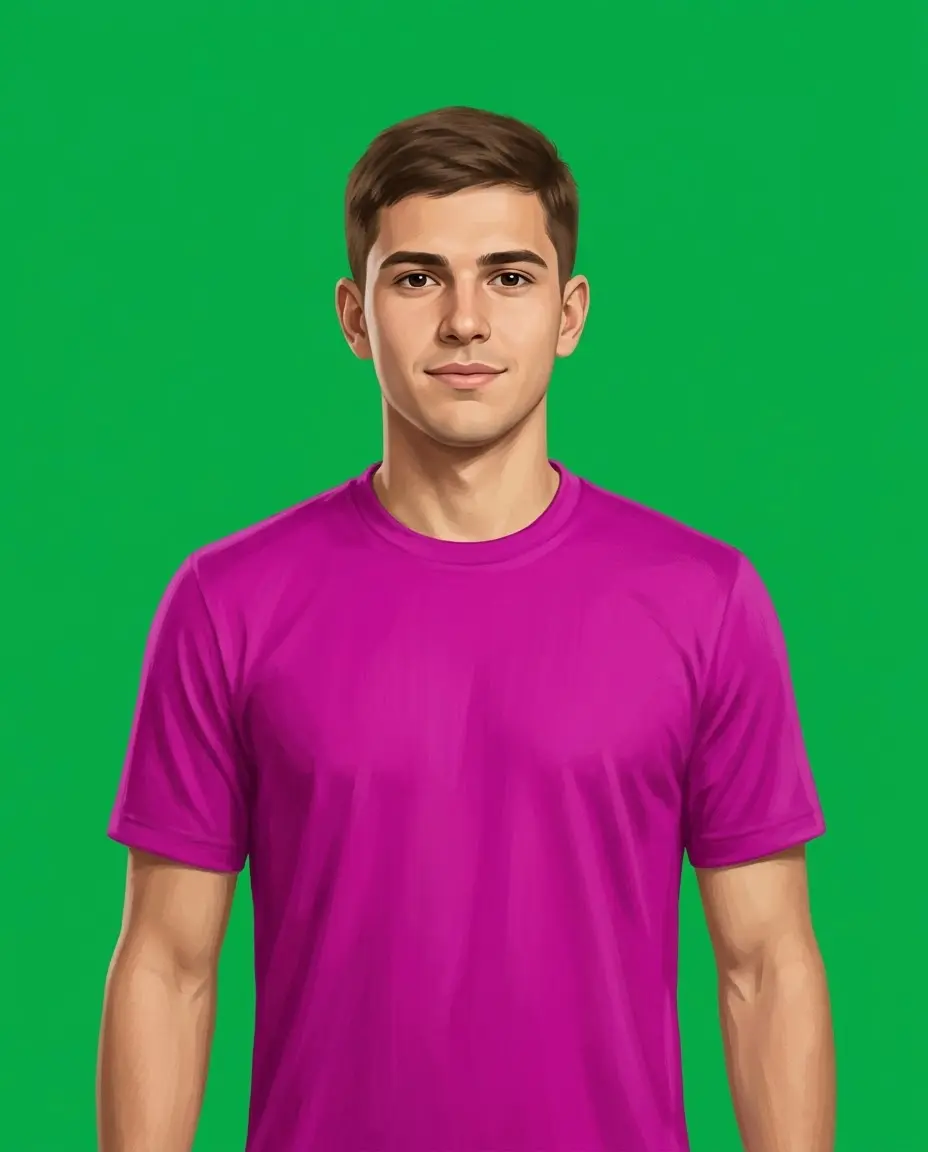
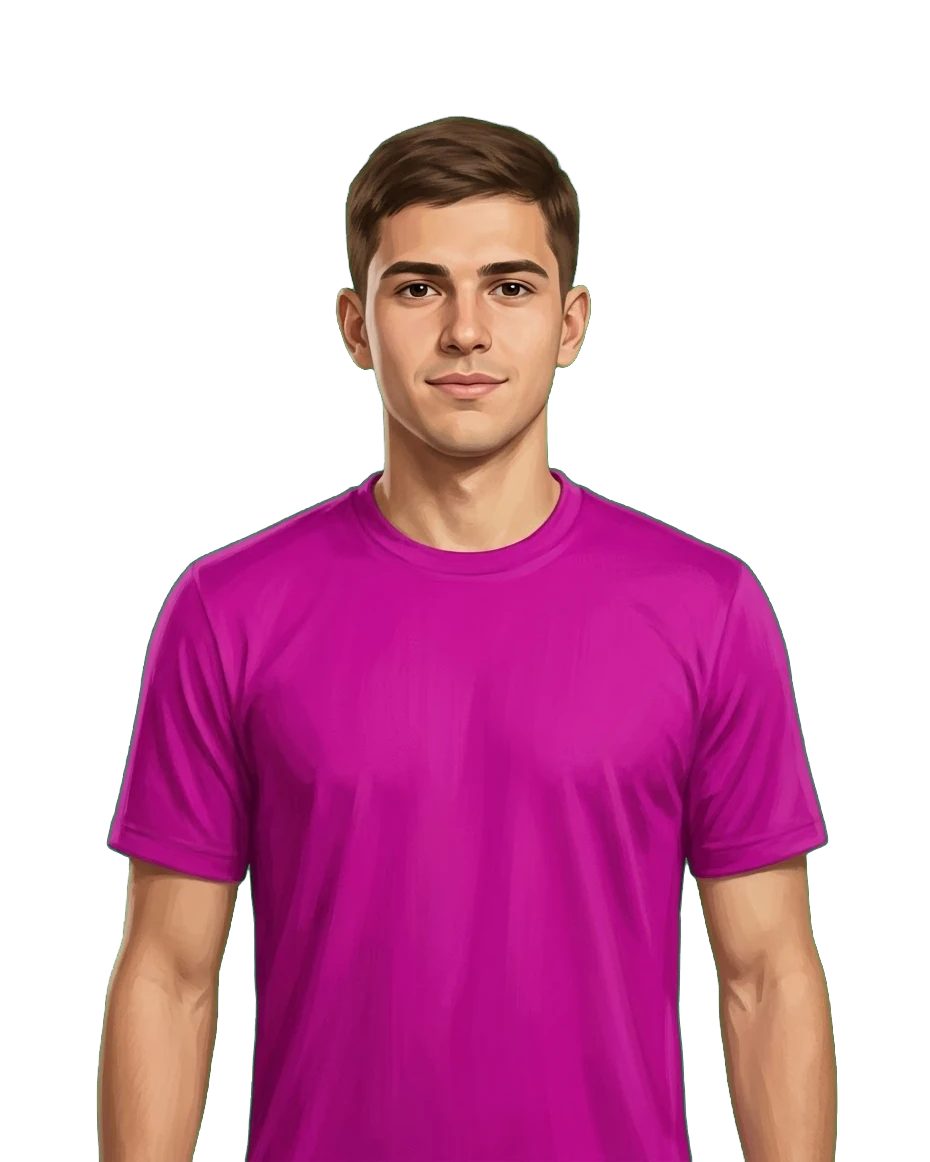
feat(arte): pós-processamento dos visuais (fundo transparente, 4:5, cabeça a 10%) e retratos processados
processar_visuais.py: matte por verde-croma com despill, reenquadramento que só estende a tela (nunca corta o corpo),
margem lateral >= 8%, WebP com alfa. Autoteste em test_processar_visuais.py; teste do cabeçalho do WebP (alfa e 4:5)
em visuais.test.ts. Fontes dos 10 retratos em docs/arte/visuais/visual-NN/Image.jpeg. Palco da criação sobre o gramado.

Claude-Session: https://claude.ai/code/session_01Afp53NU5J5wNwSjZBmW8AF

diff --git a/src/data/visuais.test.ts b/src/data/visuais.test.ts
@@ -1,3 +1,5 @@
+import { readFileSync } from 'node:fs';
+import { join } from 'node:path';
 import avatarData from './avatar.json';
 import visuais from './visuais.json';
 import { t } from '../i18n';
@@ -40,5 +42,22 @@ describe('visuais prontos (T50g, v2.36)', () => {
   it('cada visual tem a imagem provisória visual-NN.webp, em 4:5', () => {
     for (const v of LIST) expect(Object.keys(ART), v.id).toContain(`../assets/visuais/${v.id}.webp`);
     expect(Object.keys(ART)).toHaveLength(10);
+  });
+
+  // pós-processamento (docs/arte/processar_visuais.py): fundo transparente e tela 4:5, lidos do cabeçalho do WebP
+  const header = (id: string) => {
+    const b = readFileSync(join(__dirname, '..', 'assets', 'visuais', `${id}.webp`));
+    const riff = b.toString('ascii', 0, 4) === 'RIFF' && b.toString('ascii', 8, 12) === 'WEBP';
+    const vp8x = b.toString('ascii', 12, 16) === 'VP8X';
+    return { riff, vp8x, alpha: vp8x && (b[20]! & 0x10) !== 0, w: vp8x ? b.readUIntLE(24, 3) + 1 : 0, h: vp8x ? b.readUIntLE(27, 3) + 1 : 0 };
+  };
+
+  it('os retratos são WebP com canal alfa (fundo verde removido) e proporção 4:5', () => {
+    for (const v of LIST) {
+      const h = header(v.id);
+      expect(h.riff, `${v.id} é WebP`).toBe(true);
+      expect(h.alpha, `${v.id} tem transparência`).toBe(true);
+      expect(Math.abs(h.w / h.h - 0.8), `${v.id} ${h.w}x${h.h}`).toBeLessThan(0.01);
+    }
   });
 });

diff --git a/src/ui/screens/AvatarHeroi.css b/src/ui/screens/AvatarHeroi.css
@@ -6,7 +6,7 @@
   block-size: min(54dvh, 30rem);
   border: var(--forma-borda-fina) solid var(--cor-linha);
   border-radius: var(--forma-raio-cartao);
-  background: var(--cor-trilho);
+  background: var(--cor-destaque); /* o retrato é transparente (fundo removido): o palco é o gramado */
   box-shadow: var(--forma-sombra-suave);
 }
 .heroi__numero {
@@ -66,9 +66,9 @@
   padding: 0;
   overflow: hidden;
   border-radius: var(--forma-raio);
-  background: var(--cor-superficie);
+  background: var(--cor-destaque);
 }
 .escolha__miniatura { inline-size: 100%; block-size: 100%; object-fit: cover; object-position: center top; }
 .escolha__espera { display: block; inline-size: 100%; block-size: 100%; background: var(--cor-trilho); }
-.escolhas--miniaturas .escolha__input:checked + .escolha__marca--miniatura { background: var(--cor-superficie); box-shadow: none; outline: 3px solid var(--cor-destaque); outline-offset: -3px; }
+.escolhas--miniaturas .escolha__input:checked + .escolha__marca--miniatura { background: var(--cor-destaque); box-shadow: none; outline: 3px solid var(--cor-destaque); outline-offset: -3px; }
 .escolhas--miniaturas .escolha__input:focus-visible + .escolha__marca--miniatura { outline: 3px solid var(--cor-foco); outline-offset: 1px; }

diff --git a/docs/arte/processar_visuais.py b/docs/arte/processar_visuais.py
@@ -1,0 +1,155 @@
+#!/usr/bin/env python3
+"""Pós-processamento dos 10 retratos de visuais (docs/arte/visuais/visual-NN/Image*.jpeg).
+
+Para cada imagem: (1) acha o fundo verde chapado e o torna transparente, sem franja verde nas bordas;
+(2) reenquadra em 4:5 estendendo a tela (nunca corta o corpo): cabeça a 10% do topo e margem lateral de pelo menos 8%;
+(3) grava um WebP com transparência em src/assets/visuais/visual-NN.webp.
+
+Uso:
+  uv run --with pillow --with numpy python docs/arte/processar_visuais.py [--saida pasta] [--largura 928] [--qualidade 90]
+Autoteste:
+  uv run --with pillow --with numpy python docs/arte/test_processar_visuais.py
+
+Só mede e mexe em pixels: não reconhece rostos nem altera o personagem. A resolução não aumenta (a menos que --largura
+peça uma ampliação por Lanczos, que só serve de provisório: o ideal é gerar de novo em 1856x2304).
+"""
+import argparse
+import glob
+import os
+import sys
+
+import numpy as np
+from PIL import Image
+
+RATIO = 0.8                 # 4:5
+HEAD_TOP = 0.10             # topo da cabeça a 10% da altura
+SIDE_MIN = 0.08             # margem lateral mínima (fração da largura), medida a 80% da altura
+KEY_LO, KEY_HI = 0.30, 0.80  # faixa do "quanto é fundo" em que a transparência é parcial
+
+
+def _corner_color(img):
+    h, w, _ = img.shape
+    n = max(6, w // 60)
+    patches = [img[:n, :n], img[:n, -n:], img[-n:, :n], img[-n:, -n:]]
+    return np.mean([p.reshape(-1, 3).mean(0) for p in patches], axis=0)
+
+
+def _greenness(img):
+    """Quanto o pixel é 'verde de chroma': g acima do maior entre r e b."""
+    return img[..., 1] - np.maximum(img[..., 0], img[..., 2])
+
+
+def matte(img):
+    """Opacidade 0..1 (0 = fundo). `img` é HxWx3 em float 0..255. O fundo é o verde dos cantos, de qualquer tom."""
+    ref = _corner_color(img)
+    ref_k = max(float(ref[1] - max(ref[0], ref[2])), 1.0)
+    ratio = _greenness(img) / ref_k                     # 1 no fundo, <=0 em pele, cabelo e camisa
+    t = np.clip((ratio - KEY_LO) / (KEY_HI - KEY_LO), 0.0, 1.0)
+    t = t * t * (3 - 2 * t)                              # suaviza a borda
+    return 1.0 - t
+
+
+def despill(img, alpha):
+    """Tira o verde que vaza do fundo nas bordas semitransparentes (g não passa do maior entre r e b)."""
+    out = img.copy()
+    edge = (alpha > 0.0) & (alpha < 0.98)
+    cap = np.maximum(img[..., 0], img[..., 2])
+    out[..., 1] = np.where(edge, np.minimum(img[..., 1], cap), img[..., 1])
+    return out
+
+
+def _bbox_rows(alpha):
+    rows = np.where((alpha > 0.5).sum(1) > max(2, alpha.shape[1] * 0.01))[0]
+    return int(rows[0]), int(rows[-1])
+
+
+def _side_margin_px(alpha):
+    h, w = alpha.shape
+    cols = np.where(alpha[int(h * 0.8)] > 0.5)[0]
+    return int(min(cols[0], w - 1 - cols[-1])) if len(cols) else 0
+
+
+def processar(im):
+    """Imagem PIL (fundo verde) -> RGBA 4:5 com a cabeça a 10% do topo e margens laterais >= 8%."""
+    rgb = np.asarray(im.convert('RGB')).astype(float)
+    h, w, _ = rgb.shape
+    alpha = matte(rgb)
+    clean = despill(rgb, alpha)
+    y_top, _ = _bbox_rows(alpha)
+    m = _side_margin_px(alpha)
+
+    t_head = max(0.0, (HEAD_TOP * h - y_top) / (1 - HEAD_TOP))    # folga em cima para a cabeça ficar a 10%
+    h2a = h + t_head
+    w2a = RATIO * h2a
+    p_min = max(0.0, (SIDE_MIN * w - m) / (1 - 2 * SIDE_MIN))     # folga lateral (cada lado) para a margem >= 8%
+    p_min = p_min + 1 if p_min > 0 else 0.0                       # +1 px: o arredondamento não pode comer a margem
+    w2 = max(w2a, w + 2 * p_min)
+    h2 = int(np.ceil(w2 / RATIO))                                  # sempre para cima: nunca corta nem encolhe a margem
+    w2 = int(np.ceil(h2 * RATIO))
+    t = h2 - h                                                     # todo o acréscimo vai no topo: o corte da cintura fica
+
+    rgba = np.zeros((h, w, 4), dtype=np.uint8)
+    rgba[..., :3] = np.clip(clean, 0, 255).astype(np.uint8)
+    rgba[..., 3] = np.clip(alpha * 255 + 0.5, 0, 255).astype(np.uint8)
+    canvas = Image.new('RGBA', (w2, h2), (0, 0, 0, 0))
+    canvas.paste(Image.fromarray(rgba, 'RGBA'), ((w2 - w) // 2, t))
+    return canvas
+
+
+def medir(rgba):
+    a = np.asarray(rgba)[..., 3].astype(float) / 255
+    h, w = a.shape
+    y_top, _ = _bbox_rows(a)
+    m = _side_margin_px(a)
+    cols = np.where(a[int(h * 0.8)] > 0.5)[0]
+    return {'w': w, 'h': h, 'topo': 100 * y_top / h, 'margem_l': 100 * cols[0] / w if len(cols) else 0.0,
+            'margem_r': 100 * (w - 1 - cols[-1]) / w if len(cols) else 0.0, 'transparente': 100 * float((a < 0.02).mean())}
+
+
+def find_image(folder):
+    found = []
+    for ext in ('jpeg', 'jpg', 'png'):
+        for pat in (f'[Ii]mage*.{ext}', f'[Ii]magem*.{ext}'):
+            found.extend(glob.glob(os.path.join(folder, pat)))
+    return max(found, key=os.path.getmtime) if found else None
+
+
+def main():
+    here = os.path.dirname(os.path.abspath(__file__))
+    ap = argparse.ArgumentParser(description=__doc__.split('\n')[0])
+    ap.add_argument('--fontes', default=os.path.join(here, 'visuais'))
+    ap.add_argument('--saida', default=os.path.join(here, '..', '..', 'src', 'assets', 'visuais'))
+    ap.add_argument('--largura', type=int, default=0, help='amplia por Lanczos até esta largura (só provisório)')
+    ap.add_argument('--qualidade', type=int, default=90)
+    args = ap.parse_args()
+    os.makedirs(args.saida, exist_ok=True)
+    folders = sorted(glob.glob(os.path.join(args.fontes, 'visual-*')))
+    if not folders:
+        print('nenhuma pasta visual-NN em', args.fontes); return 1
+    print(f'{"visual":10} {"origem":>10} {"saída":>10} {"topo%":>6} {"marg L/R%":>10}  nota')
+    bad = 0
+    for d in folders:
+        name = os.path.basename(d)
+        src = find_image(d)
+        if not src:
+            print(f'{name:10} sem imagem'); bad += 1; continue
+        im = Image.open(src)
+        out = processar(im)
+        if args.largura and out.size[0] != args.largura:
+            out = out.resize((args.largura, int(round(args.largura / RATIO))), Image.LANCZOS)
+        r = medir(out)
+        notes = []
+        if not (9.0 <= r['topo'] <= 15.0):
+            notes.append('cabeça fora de 9–15%')
+        if min(r['margem_l'], r['margem_r']) < 7.9:
+            notes.append('margem lateral < 8%')
+        if im.size[0] < 900:
+            notes.append('origem em baixa resolução (provisório)')
+        bad += bool([n for n in notes if 'provisório' not in n])
+        out.save(os.path.join(args.saida, f'{name}.webp'), 'WEBP', quality=args.qualidade, alpha_quality=100, method=6)
+        print(f'{name:10} {im.size[0]}x{im.size[1]:<5} {out.size[0]}x{out.size[1]:<5} {r["topo"]:>6.1f} {r["margem_l"]:>4.0f}/{r["margem_r"]:<4.0f}  {"; ".join(notes) or "OK"}')
+    return 1 if bad else 0
+
+
+if __name__ == '__main__':
+    sys.exit(main())

diff --git a/docs/arte/test_processar_visuais.py b/docs/arte/test_processar_visuais.py
@@ -1,0 +1,87 @@
+#!/usr/bin/env python3
+"""Autoteste do pós-processamento dos visuais (docs/arte/processar_visuais.py).
+Uso: uv run --with pillow --with numpy python docs/arte/test_processar_visuais.py
+Cria imagens sintéticas (fundo verde, corpo magenta, cabeça cor de pele) e confere cada etapa."""
+import os
+import sys
+
+import numpy as np
+from PIL import Image
+
+sys.path.insert(0, os.path.dirname(__file__))
+import processar_visuais as pv  # noqa: E402
+
+GREEN = (15, 170, 72)
+
+
+def fake(w=400, h=500, head_top=0.04, side=0.06, bg=GREEN):
+    """Pessoa sintética: cabeça (elipse cor de pele) e camisa magenta, sobre fundo verde chapado."""
+    im = np.zeros((h, w, 3), dtype=np.uint8); im[:] = bg
+    cx = w // 2
+    top = int(h * head_top)
+    for y in range(top, top + int(h * 0.20)):          # cabeça
+        r = int(w * 0.11 * np.sqrt(max(0.0, 1 - ((y - top - h * 0.10) / (h * 0.10)) ** 2)))
+        im[y, cx - r:cx + r] = (200, 150, 120)
+    x0, x1 = int(w * side), int(w * (1 - side))
+    im[int(h * 0.30):, x0:x1] = (204, 0, 170)           # camisa
+    return Image.fromarray(im)
+
+
+def test_matte_remove_fundo_e_mantem_pessoa():
+    a = pv.matte(np.asarray(fake()).astype(float))
+    assert a[2, 2] == 0 and a[-3, 2] == 0, 'cantos do fundo devem ficar transparentes'
+    assert a[300, 200] == 1.0, 'camisa opaca'
+    assert a[60, 200] == 1.0, 'rosto opaco'
+
+
+def test_despill_tira_verde_da_borda():
+    img = np.asarray(fake()).astype(float)
+    a = pv.matte(img)
+    out = pv.despill(img, a)
+    edge = (a > 0.05) & (a < 0.95)
+    if edge.any():
+        assert (out[..., 1][edge] <= np.maximum(out[..., 0], out[..., 2])[edge] + 1).all(), 'sem verde dominante na borda'
+
+
+def test_reenquadra_cabeca_a_10_por_cento_sem_cortar_o_corpo():
+    im = fake(head_top=0.04)
+    out = pv.processar(im)
+    rgba = np.asarray(out)
+    assert out.mode == 'RGBA'
+    w, h = out.size
+    assert abs(w / h - 0.8) < 0.01, f'proporção {w}x{h}'
+    rows = np.where(rgba[..., 3].max(1) > 128)[0]
+    assert 9.0 <= 100 * rows[0] / h <= 11.0, f'topo da cabeça a {100 * rows[0] / h:.1f}%'
+    assert rows[-1] == h - 1, 'o corte da cintura (base) é preservado'
+    assert out.size[1] > im.size[1], 'a tela cresceu em vez de cortar'
+
+
+def test_margem_lateral_minima_de_8_por_cento():
+    out = pv.processar(fake(side=0.02))
+    rgba = np.asarray(out); w, h = out.size
+    cols = np.where(rgba[int(h * 0.8), :, 3] > 128)[0]
+    assert 100 * cols[0] / w >= 7.9 and 100 * (w - 1 - cols[-1]) / w >= 7.9
+
+
+def test_ja_enquadrada_nao_muda_de_forma():
+    out = pv.processar(fake(head_top=0.10, side=0.12))
+    w, h = out.size
+    assert abs(w / h - 0.8) < 0.01
+    rows = np.where(np.asarray(out)[..., 3].max(1) > 128)[0]
+    assert 9.0 <= 100 * rows[0] / h <= 11.0
+
+
+def test_fundo_com_tom_diferente_tambem_sai():
+    a = pv.matte(np.asarray(fake(bg=(20, 150, 60))).astype(float))
+    assert a[2, 2] == 0
+
+
+if __name__ == '__main__':
+    fails = 0
+    for name, fn in sorted(globals().items()):
+        if name.startswith('test_') and callable(fn):
+            try:
+                fn(); print('ok  ', name)
+            except Exception as e:  # noqa: BLE001
+                fails += 1; print('FALHA', name, '->', repr(e))
+    sys.exit(1 if fails else 0)
